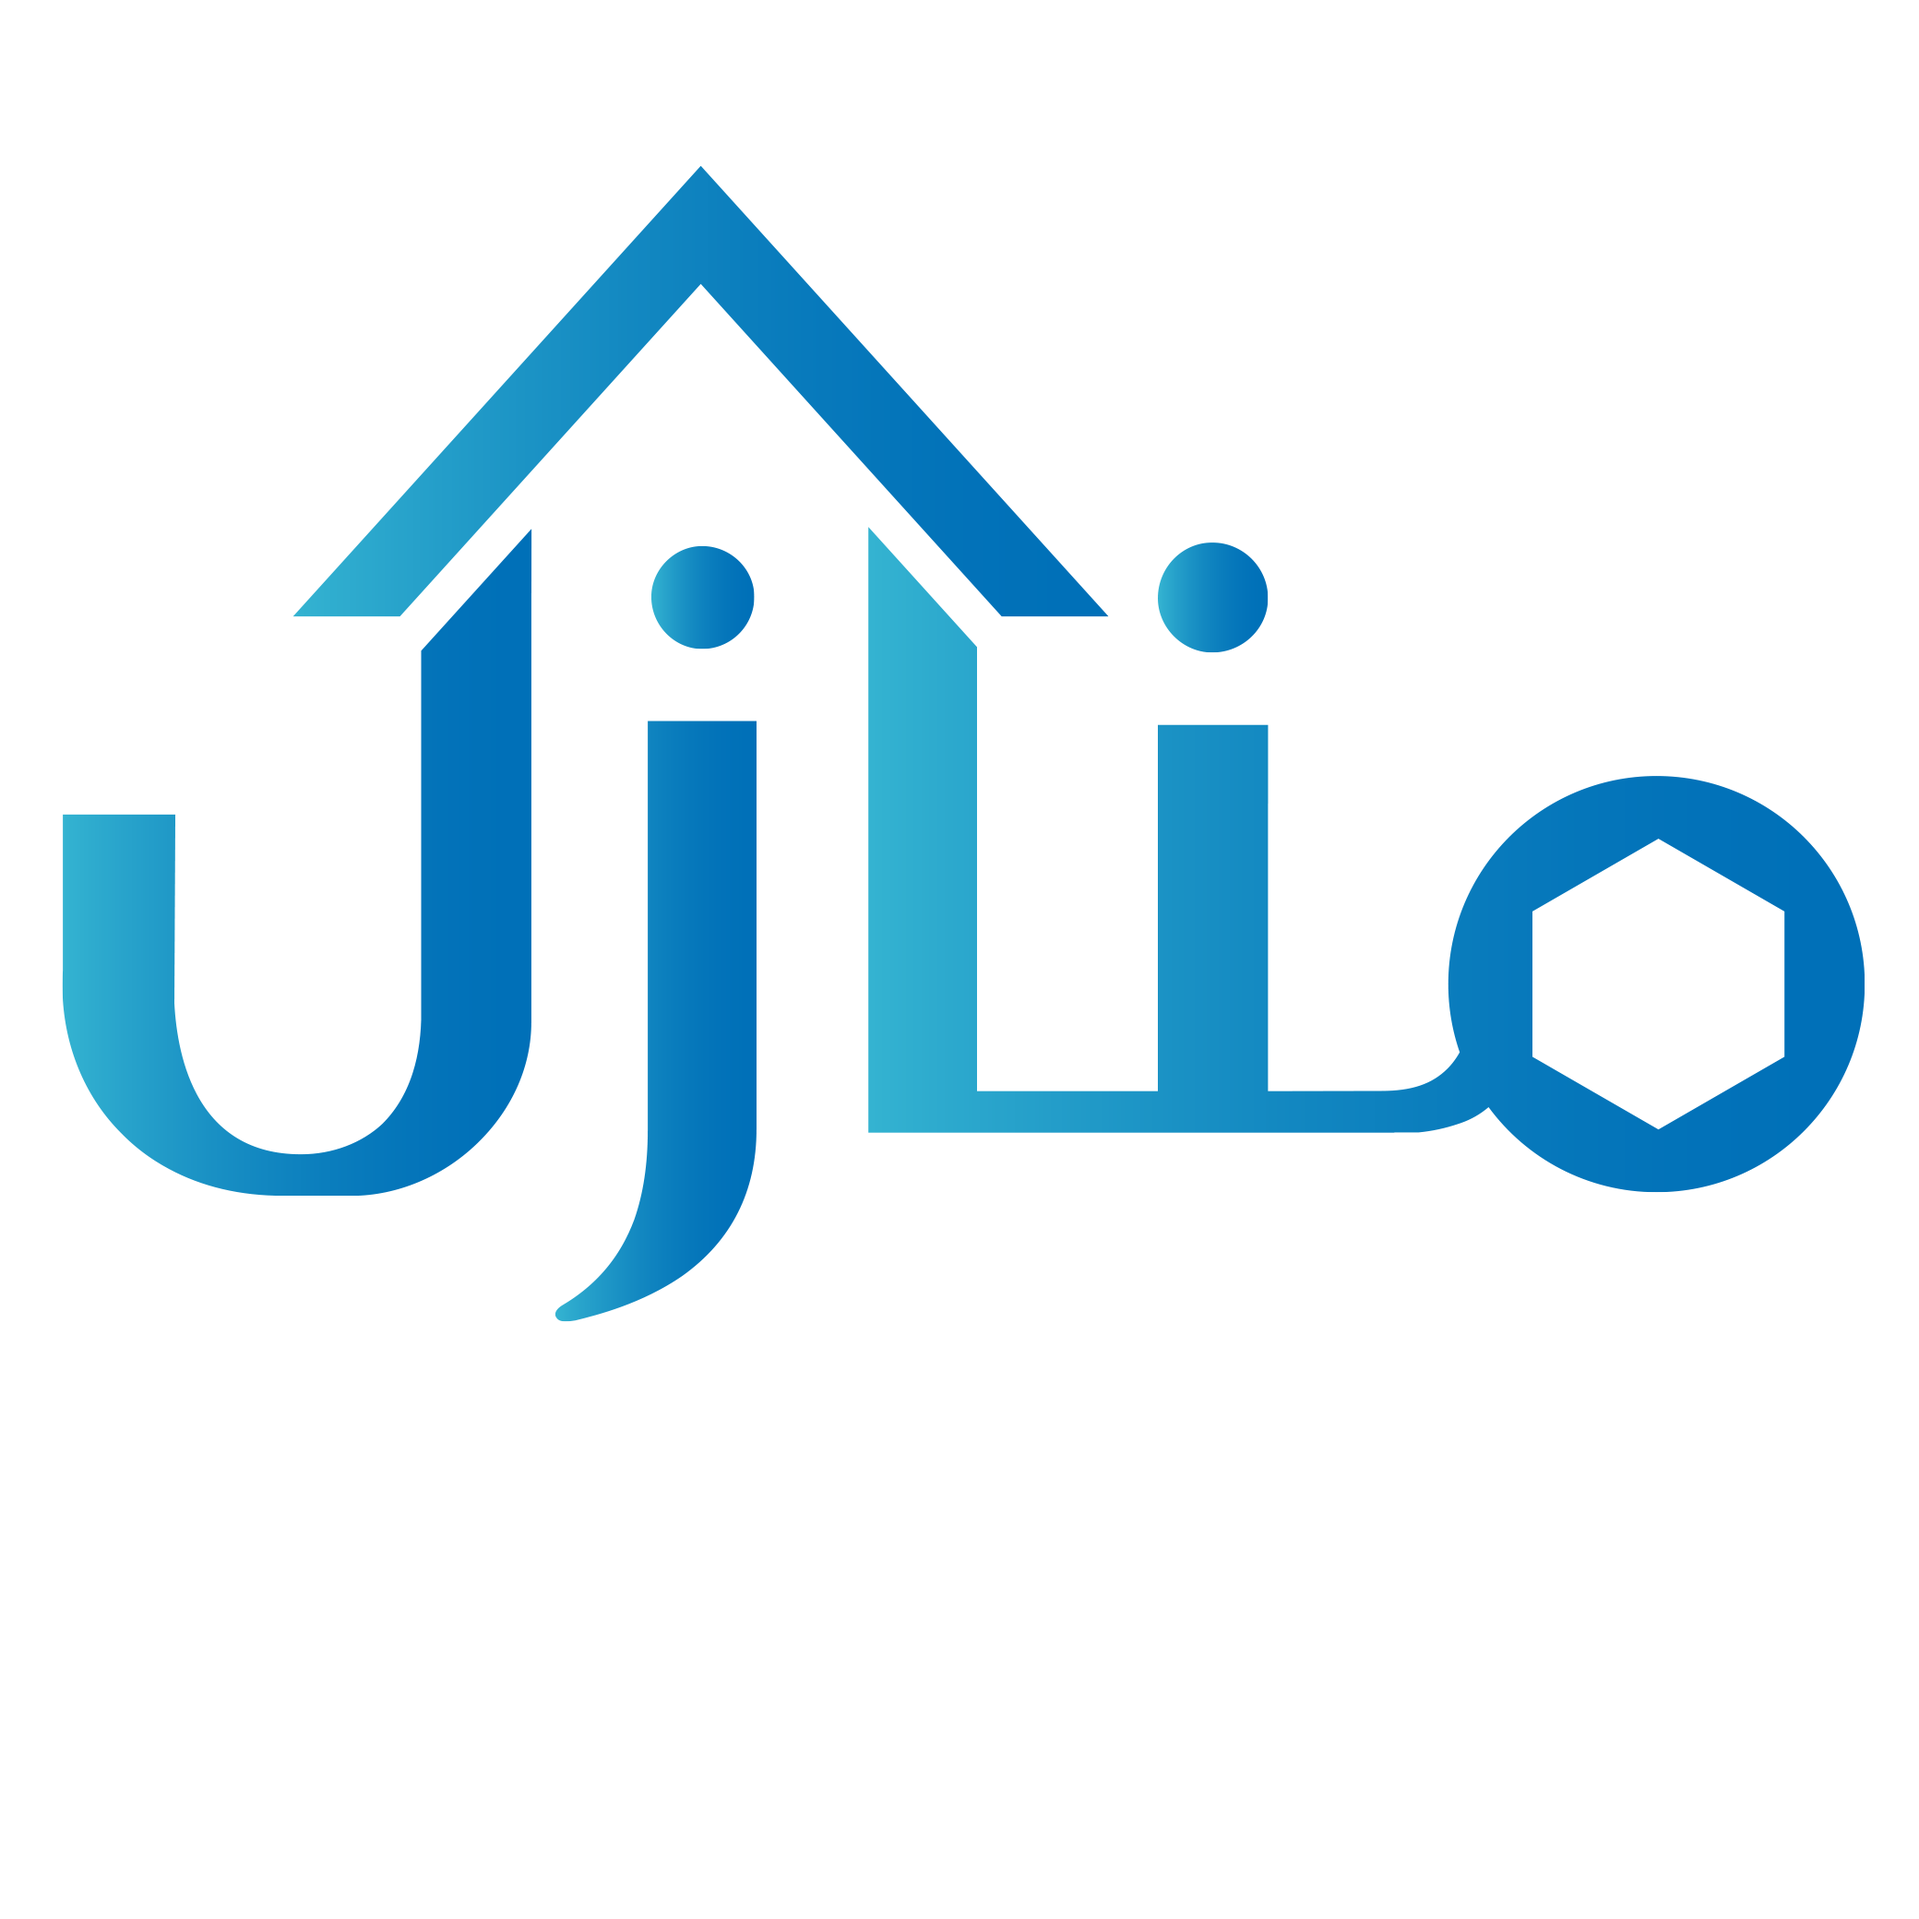
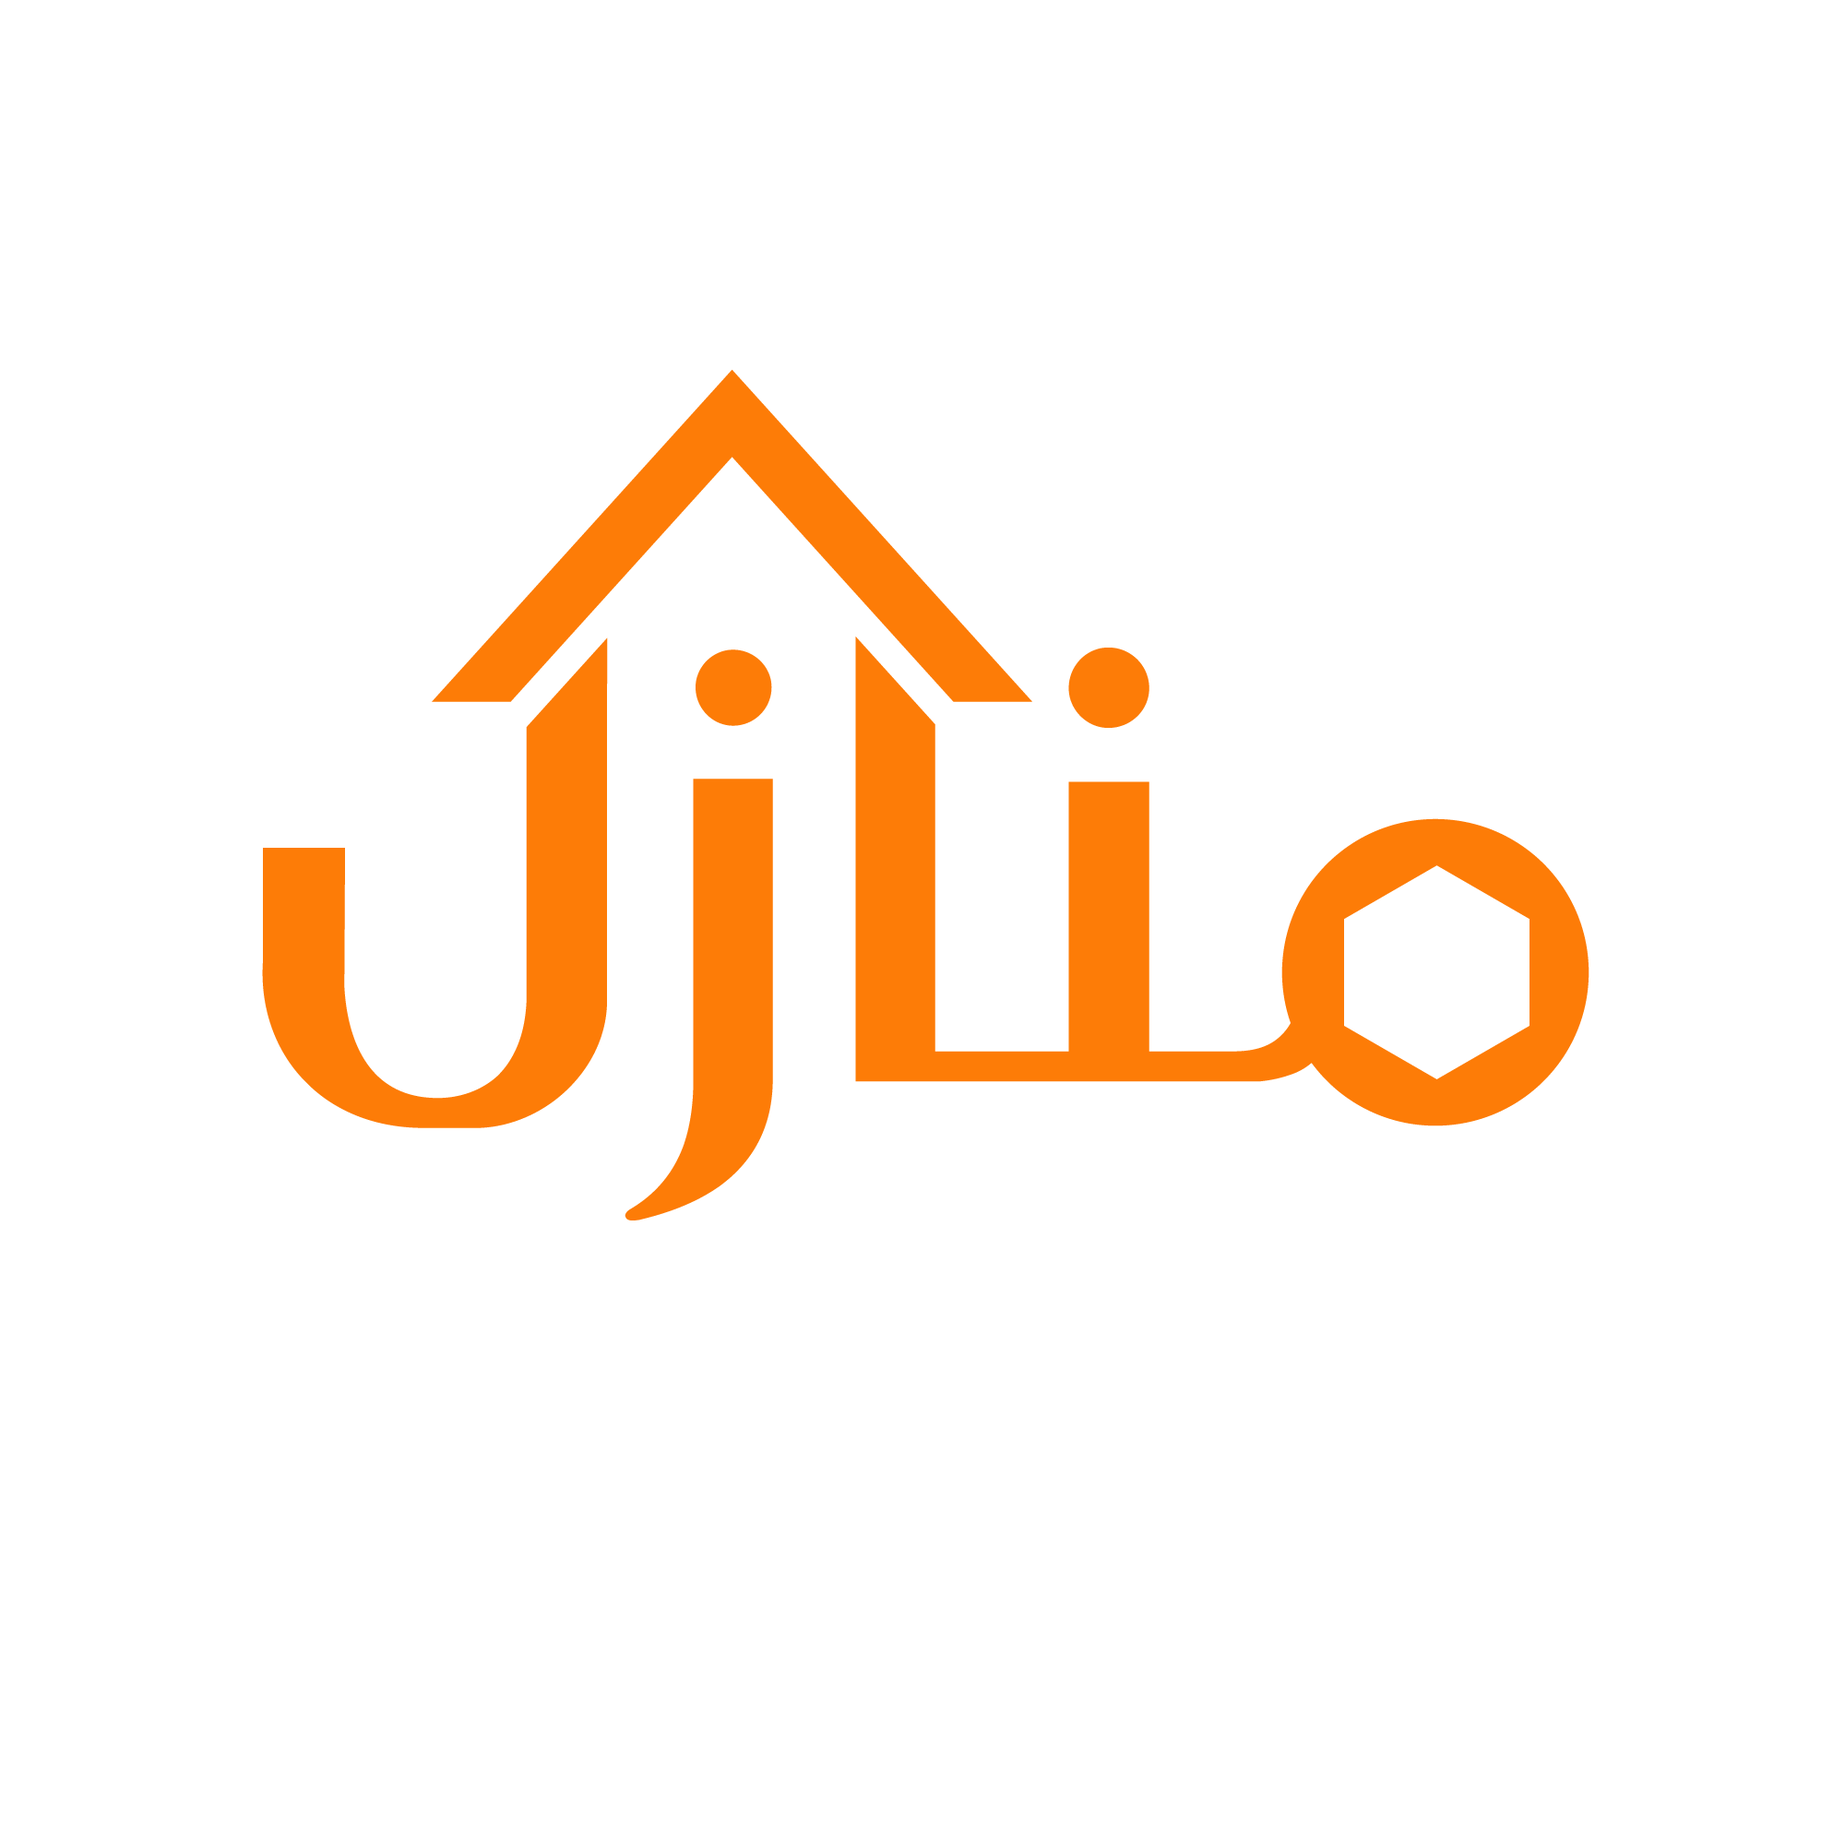
change the color palette with the new colors

Changed region(s): [[0.031, 0.093, 0.992, 0.713]]

diff --git a/public/front/assets/css/main.css b/public/front/assets/css/main.css
@@ -43,16 +43,16 @@
   --default-color: #484848;
 
   /* Heading Color - This color is used for titles, headings and secondary elements. */
-  --heading-color: #0071B8;
+  --heading-color: #002044;
 
   /* Accent Color - This is the main accent color that represents your brand on the website. It's used for buttons, links, and other elements that need to stand out. */
-  --accent-color: #4CBBD6;
+  --accent-color: #fd7c07;
 
   /* Contrast Color - This is a color used for text when the background color is one of the heading, accent, or default colors. Its purpose is to ensure proper contrast and readability when placed over these more dominant colors. */
   /* --contrast-color: #ffffff; */
 
-  /* --contrast-color: #0071B8;
-  --contrast-color: #4CBBD6;
+  /* --contrast-color: #002044;
+  --contrast-color: #fd7c07;
   --contrast-color: #484848; */
 
 }
@@ -63,7 +63,7 @@
   --nav-color: #ffffff;
 
   /* Nav Hover Color - This color is applied to main navmenu links when they are hovered over. */
-  --nav-hover-color: #4CBBD6;
+  --nav-hover-color: #fd7c07;
 
   /* Nav Dropdown Background Color - This color is used as the background for dropdown boxes that appear when hovering over primary navigation items. */
   --nav-dropdown-background-color: #ffffff;
@@ -72,7 +72,7 @@
   --nav-dropdown-color: #484848;
 
   /* Nav Dropdown Hover Color - Similar to --nav-hover-color, this color is applied to dropdown navigation links when they are hovered over. */
-  --nav-dropdown-hover-color: #4CBBD6;
+  --nav-dropdown-hover-color: #fd7c07;
 }
 
 /* Smooth scroll */
@@ -552,12 +552,12 @@ section,
 # Hero Section
 --------------------------------------------------------------*/
 .hero {
-    --background-color: #0071B8;
-    /* --background-color: #4CBBD6; */
+    --background-color: #002044;
+    /* --background-color: #fd7c07; */
 
     --default-color: #ffffff;
     --heading-color: #ffffff;
-    --contrast-color: #0071B8;
+    --contrast-color: #002044;
     width: 100%;
     min-height: 80vh;
     position: relative;
@@ -652,11 +652,11 @@ section,
 }
 
 .hero .btn-watch-video:hover {
-    color: color-mix(in srgb, #4CBBD6, transparent 15%);
+    color: color-mix(in srgb, #fd7c07, transparent 15%);
 }
 
 .hero .btn-watch-video:hover i {
-  color: color-mix(in srgb, #4CBBD6, transparent 15%);
+  color: color-mix(in srgb, #fd7c07, transparent 15%);
 }
 
 .hero .animated {
@@ -2130,7 +2130,7 @@ section,
 
 /* =============================== */
 .mycounter{
-    background: #0071B8;
+    background: #002044;
     border-radius: 16px;
     padding: 2rem 1rem;
     margin: 0 0.15rem;
@@ -2286,7 +2286,7 @@ margin-right: 65px !important;
 
   .service-item a.btn {
     padding: 10px 20px;
-    background: #007bff;
+    background: #fd7c07;
     color: #fff;
     border: none;
     border-radius: 5px;

diff --git a/public/front/assets/css/cards.css b/public/front/assets/css/cards.css
@@ -23,19 +23,19 @@
 }
 
 .card .btn {
-    background-color: #0071b8;
+    background-color: #002044;
     color: #ffffff;
     font-size: 1rem;
     padding: 0.5rem 1.5rem;
 }
 
 .card .btn:hover {
-    background-color: #4cbbd6;
+    background-color: #fd7c07;
     color: #ffffff;
 }
 
 .btn-custom {
-    background-color: #0071b8;
+    background-color: #002044;
     color: #ffffff;
     font-size: 18px;
     padding: 10px 30px;
@@ -46,7 +46,7 @@
 }
 
 .btn-custom:hover {
-    background-color: #4cbbd6;
+    background-color: #fd7c07;
     color: #ffffff;
     transform: scale(1.05);
 }
@@ -56,12 +56,12 @@
 }
 
 .btn-blue {
-    background-color: #0071b8;
+    background-color: #002044;
     color: #ffffff;
 }
 
 .btn-blue:hover {
-    background-color: #4cbbd6;
+    background-color: #fd7c07;
     transform: scale(1.05);
     color: #ffffff;
 }
@@ -98,7 +98,7 @@
 
 .custom-card-title:hover {
     font-size: 1.2rem;
-    color: #4cbbd6;
+    color: #fd7c07;
 }
 
 .custom-card-subtitle {
@@ -113,8 +113,8 @@
 .custom-btn {
     padding: 5px 10px;
     font-size: 0.9rem;
-    background-color: #4cbbd6;
-    border-color: #4cbbd6;
+    background-color: #fd7c07;
+    border-color: #fd7c07;
 }
 
 .custom-price {

diff --git a/public/front/assets/css/sub_service.css b/public/front/assets/css/sub_service.css
@@ -2,9 +2,9 @@
 	padding: 40px 0;
 	font-family: 'Poppins', sans-serif;
 
-    color: #4CBBD6;
+    color: #fd7c07;
 color: #484848;
-color: #0071B8;
+color: #002044;
 }
 .heading-section {
 	text-align: center;
@@ -15,7 +15,7 @@ color: #0071B8;
     font-size: 12px;
     display: block;
     font-weight: 600;
-    color: #4CBBD6;
+    color: #fd7c07;
     text-transform: uppercase;
     letter-spacing: 2px;
 }
@@ -40,7 +40,7 @@ color: #0071B8;
 .quote {
 	position: absolute;
     top: -23px;
-    color: #4CBBD6;
+    color: #fd7c07;
     font-size: 27px;
 }
 .name {
@@ -198,8 +198,8 @@ color: #0071B8;
 }
 .round-black-btn:hover,
 .round-black-btn:focus {
-	background: #0071B8;
-    border: solid 2px #0071B8;
+	background: #002044;
+    border: solid 2px #002044;
 
 	color: #ffffff;
 	text-decoration: none;
@@ -217,7 +217,7 @@ color: #0071B8;
 .product-info-tabs .nav-tabs .nav-link {
 	border: none;
 	border-bottom: 2px solid transparent;
-	color: #0071B8;
+	color: #002044;
 }
 .product-info-tabs .nav-tabs .nav-item .nav-link:hover {
 	border: none;

diff --git a/public/front/assets/css/nav.css b/public/front/assets/css/nav.css
@@ -1,6 +1,6 @@
 .btn-getstarted,
 .btn-getstarted:focus {
-  background:  #0072b8f3;
+  background:  #002044;
   color: #ffff;
 
   font-size: 14px;
@@ -17,9 +17,9 @@
 
 /* Add this CSS to your stylesheet */
 .navmenu a.active {
-    color: #4CBBD6;
+    color: #fd7c07;
 color: #484848;
-color: #0071B8;
+color: #002044;
   }
 
 /* .logo_img{
@@ -53,7 +53,7 @@ color: #0071B8;
 
   .navbar-light .navbar-nav .nav-link:hover,
   .navbar-light .navbar-nav .nav-link.active {
-    color:  #4CBBD6 !important;
+    color:  #fd7c07 !important;
   }
 
   .navbar-light .navbar-brand h1 {
@@ -75,7 +75,7 @@ color: #0071B8;
 
   .profile-links a {
     border-radius: 5px;
-    color: #4CBBD6;
+    color: #fd7c07;
     padding-block: 0.5rem;
     background-color: transparent;
   }
@@ -154,7 +154,7 @@ color: #0071B8;
     }
 
     .sticky-top.navbar-light .navbar-brand h1 {
-      color:  #4CBBD6;
+      color:  #fd7c07;
     }
   }
 

diff --git a/public/front/assets/css/login.css b/public/front/assets/css/login.css
@@ -69,8 +69,8 @@ body {
     box-shadow: none;
     width: 100%;
     height: 40px;
-    background-color: #4CBBD6;
-    border-color: #4CBBD6;
+    background-color: #fd7c07;
+    border-color: #fd7c07;
     color: #fff;
     border-radius: 25px;
     box-shadow: 3px 3px 3px #b1b1b1, -3px -3px 3px #fff;
@@ -78,7 +78,7 @@ body {
 }
 
 .custom-wrapper .custom-btn:hover {
-    background-color: #4CBBD6;
+    background-color: #fd7c07;
 }
 
 .custom-wrapper a {
@@ -88,7 +88,7 @@ body {
 }
 
 .custom-wrapper a:hover {
-    color: #0071B8;
+    color: #002044;
 }
 
 .center{
